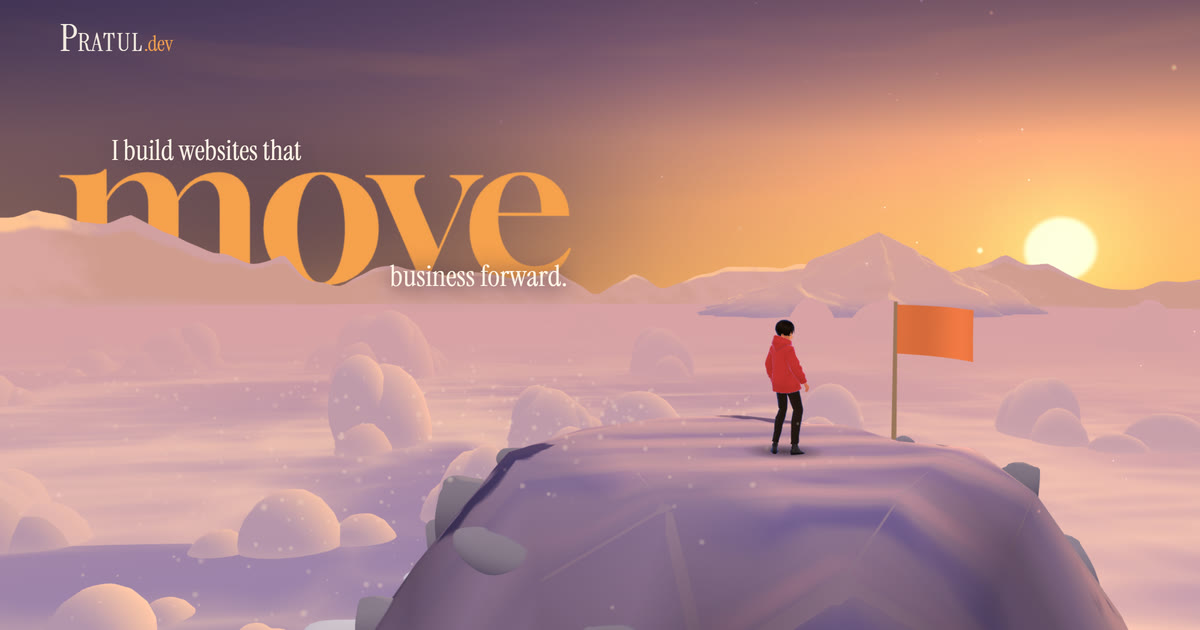
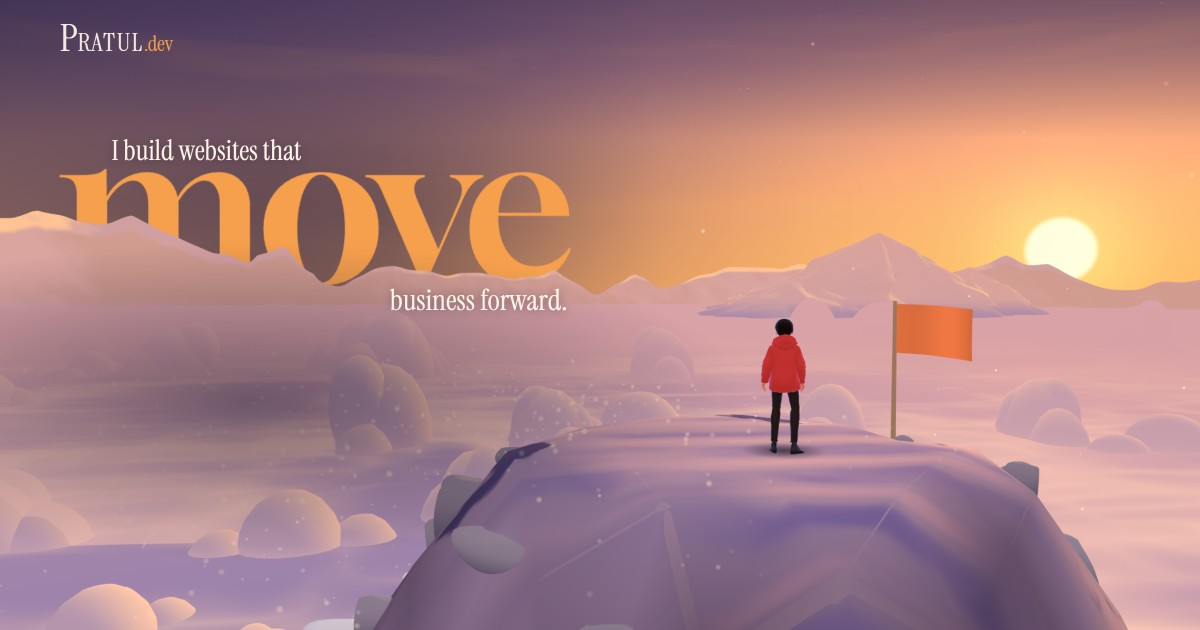
Hero: business forward. spacing and a little more cover on the m
- "business forward." moves down 29 u (same x, size and font) so it no longer touches the
  v and e. Measured on a 1440 x 900 screenshot: 9 px from "I build websites that" to the
  top of "move", and 9 px from the foot of "move" to the top of "business forward.".
  The subtext and buttons don't overlap it, so they stay where they were.
- The far ring's ridge in front of the "m" is lifted a little (about 12 px) under the m's
  middle and right legs only, fading out before the "o" (terrain.js, HERO_M_LIFT). Its
  shape, colours and painting are unchanged; the lift shows only in the last moments of
  the climb, so earlier shots of the film are untouched.
- assets/share-summit.jpg re-made from this hero (1200 x 630, 70 KB).

diff --git a/js/world/terrain.js b/js/world/terrain.js
@@ -41,6 +41,15 @@ const MOUNTAIN_LAYERS = [
 // The centre the mountain rings are drawn around (about the middle of the walk).
 const RING_CENTRE = new THREE.Vector3(0, 0, -80);
 
+// The summit hero's "m": the farthest ring is the mountain in front of the foot of "move" (heroword.js).
+// Under the m's middle and right legs it dips low, so this stretch of its ridge is lifted a little
+// (about 12 px on screen), only in the hero's view at the very top. The ridge keeps its own shape: it is
+// raised as it is, fully under those legs, fading to nothing towards the edges, before the "o".
+// at: where round the ring (0..1; worked out from the hero camera's view); flat: half-width of the
+// full lift; fade: half-width where it reaches nothing; metres: how much (before the ring is squashed
+// to 0.42 of its height at the summit, so 88 m shows as about 37 m).
+const HERO_M_LIFT = { at: 0.9828, flat: 0.0040, fade: 0.0057, metres: 88 };
+
 export function createMountains(scene) {
   const group = new THREE.Group();
   group.name = 'mountains';
@@ -66,6 +75,8 @@ export function createMountains(scene) {
       mesh.visible = !(i < 3 && t > 0.999);   // fully sunk: don't draw them at all
     });
     const far = layers[3];
+    // The lift under the hero's "m" shows only in the last moments of the climb (HERO_M_LIFT).
+    far.userData.material.uniforms.uLift.value = smoothstep(0.85, 1, t);
     const s = 1 + 0.6 * t;
     far.scale.set(s, 1 - 0.58 * t, s);
     // Scale around the ring centre, not the world's origin.
@@ -108,6 +119,7 @@ function buildMountainLayer(layer, index) {
 
   // 2. Build a ribbon: two vertices per slice (top on the outline, bottom far below).
   const positions = [];
+  const lift = [];    // (farthest ring only) how much this column rises in the summit hero
   const crest = [];   // outline height, so the shader knows how far below the top a pixel is
   const slope = [];   // which way the outline leans: lit side or shadow side
   const indices = [];
@@ -122,6 +134,9 @@ function buildMountainLayer(layer, index) {
     const next = broad[Math.min(i + k, columns)];
     const s = (next - prev) / (layer.amp * 0.18);
     positions.push(x, heights[i], z, x, bottom, z);
+    const off = Math.abs(i / columns - HERO_M_LIFT.at);
+    const up = index === 3 ? HERO_M_LIFT.metres * (1 - smoothstep(HERO_M_LIFT.flat, HERO_M_LIFT.fade, off)) : 0;
+    lift.push(up, up);
     crest.push(heights[i], heights[i]);
     slope.push(s, s);
     if (i < columns) {
@@ -132,6 +147,7 @@ function buildMountainLayer(layer, index) {
   const geo = new THREE.BufferGeometry();
   geo.setAttribute('position', new THREE.Float32BufferAttribute(positions, 3));
   geo.setAttribute('aCrest', new THREE.Float32BufferAttribute(crest, 1));
+  geo.setAttribute('aLift', new THREE.Float32BufferAttribute(lift, 1));
   geo.setAttribute('aSlope', new THREE.Float32BufferAttribute(slope, 1));
   geo.setIndex(indices);
 
@@ -152,18 +168,26 @@ function buildMountainLayer(layer, index) {
       uSnowLine: { value: layer.base + layer.amp * 0.2 },
       uLayer: { value: index },
       uLitSide: { value: 1 },     // 1 = light from the left (the moon); -1 = from the right
+      uLift: { value: 0 },        // 0..1: how much of HERO_M_LIFT shows (only at the summit)
     },
     vertexShader: /* glsl */ `
       attribute float aCrest;
       attribute float aSlope;
+      attribute float aLift;
+      uniform float uLift;
       varying float vY, vCrest, vSlope;
       varying vec2 vXZ;
       void main() {
-        vY = position.y;
-        vCrest = aCrest;
+        // The hero's lift raises the ridge (the top vertex) and its painting (the crest) together,
+        // so the lifted stretch is painted exactly like the rest of the ridge.
+        vec3 p = position;
+        float up = aLift * uLift;
+        p.y += position.y > -259.0 ? up : 0.0;
+        vY = p.y;
+        vCrest = aCrest + up;
         vSlope = aSlope;
-        vXZ = position.xz;
-        gl_Position = projectionMatrix * modelViewMatrix * vec4(position, 1.0);
+        vXZ = p.xz;
+        gl_Position = projectionMatrix * modelViewMatrix * vec4(p, 1.0);
       }
     `,
     fragmentShader: /* glsl */ `

diff --git a/css/home.css b/css/home.css
@@ -353,11 +353,12 @@ html:not(.climb-done) .hero__replay { visibility: hidden; }
 /* (without the live scene there are no peaks in front of it: the foot of the letters fades into the haze
    instead, so "business forward." never sits on top of them. Gloock's baseline is 0.875 em down the box.) */
 [data-mode="film"]:not(.is-live) .hero__move { -webkit-mask-image: linear-gradient(180deg, #000 0.72em, transparent 0.84em); mask-image: linear-gradient(180deg, #000 0.72em, transparent 0.84em); }
-/* "business forward.": 35 u, in front of the peaks, on "move"'s baseline (4 u lower), from x 468. */
+/* "business forward.": 35 u, in front of the peaks, from x 468, 33 u below "move"'s baseline: measured on a
+   1440 x 900 screenshot, the gap under "move" (to the top of these letters) matches the gap above it (9 px). */
 [data-mode="film"] .hero__l3 {
   position: absolute;
   left: calc((468 - 134) * var(--u));
-  top: calc(151 * var(--u) + 0.84 * 33 * var(--u) - 0.84 * 35 * var(--u));
+  top: calc(180 * var(--u) + 0.84 * 33 * var(--u) - 0.84 * 35 * var(--u));
   font-size: calc(35 * var(--u));
   text-shadow: 0 1px 10px rgba(40, 25, 60, 0.55);
 }
